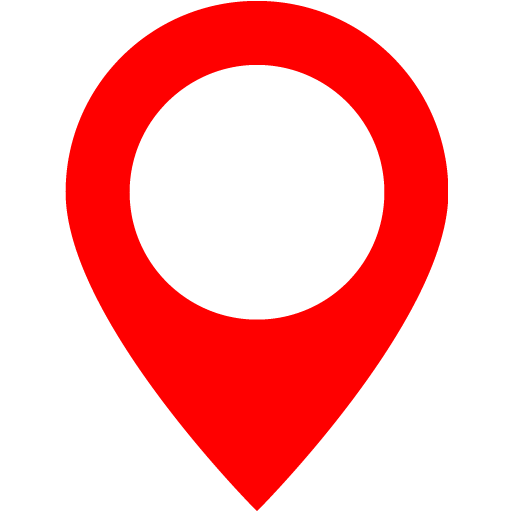
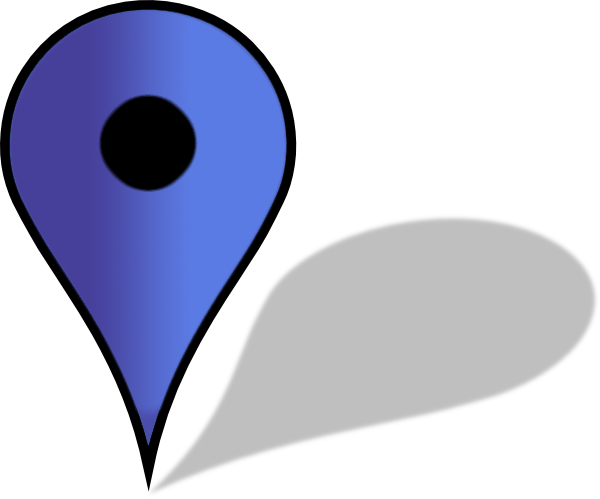
style fix

diff --git a/src/js/view.js b/src/js/view.js
@@ -2,7 +2,7 @@ import 'leaflet';
 import 'leaflet/dist/leaflet.js';
 import 'leaflet/dist/leaflet.css';
 
-import markerIcon from '../images/icon-marker2.png';
+import markerIcon from '../images/icon-marker.png';
 
 class View {
   render(data) {
@@ -63,11 +63,11 @@ export class SearchIPView extends View {
 
 export class ShowIPDataView extends View {
   _parentEl = document.querySelector('#ipInfo');
-  _message = 'Please enter correct IP address!';
+  _message = 'Please enter a valid IPv4 address!';
 
   _genereateMarkup(data) {
     return `
-      <div class="lg:px-12">
+      <div>
         <h3
           class="text-dark-gray text-[12px] uppercase font-medium tracking-wider"
         >
@@ -76,7 +76,7 @@ export class ShowIPDataView extends View {
         <p class="text-lg font-medium">${data.ip}</p>
       </div>
 
-      <div class="lg:px-12">
+      <div>
         <h3
           class="text-dark-gray text-[12px] uppercase font-medium tracking-wider"
         >
@@ -85,7 +85,7 @@ export class ShowIPDataView extends View {
         <p class="text-lg font-medium">${data.country}, ${data.city}</p>
       </div>
 
-      <div class="lg:px-12">
+      <div>
         <h3
           class="text-dark-gray text-[12px] uppercase font-medium tracking-wider"
         >
@@ -94,7 +94,7 @@ export class ShowIPDataView extends View {
         <p class="text-lg font-medium">${data.timezone.id} ${data.timezone.utc}</p>
       </div>
 
-      <div class="lg:px-12">
+      <div>
         <h3
           class="text-dark-gray text-[12px] uppercase font-medium tracking-wider"
         >
@@ -111,7 +111,7 @@ export class ShowMap extends View {
   _map = L.map('map');
   _myIcon = L.icon({
     iconUrl: markerIcon,
-    iconSize: [65, 65],
+    iconSize: [65, 55],
   });
 
   renderMap(position) {

diff --git a/index.html b/index.html
@@ -13,7 +13,7 @@
 
     <link
       rel="shortcut icon"
-      href="src/images/icon-marker.png"
+      href="src/images/logo-marker.png"
       type="image/x-icon"
     />
 
@@ -25,11 +25,16 @@
       <div
         class="flex flex-col justify-start items-center bg-header bg-no-repeat bg-cover gap-8 relative min-h-[380px] lg:min-h-[330px] pt-14"
       >
-        <h1 class="text-2xl text-white tracking-wide font-medium">
+        <h1
+          class="text-2xl text-white tracking-wide font-medium drop-shadow-[4.0px_8.0px_8.0px_rgba(0,0,0,0.38)]"
+        >
           IP Address Tracker
         </h1>
 
-        <form id="form" class="flex justify-center lg:w-[500px] container">
+        <form
+          id="form"
+          class="flex justify-center lg:w-[500px] shadow-[4.0px_8.0px_8.0px_rgba(0,0,0,0.38)] rounded-2xl container"
+        >
           <input
             class="rounded-l-xl outline-none w-full px-5 py-3 text-lg placeholder:text-sm"
             type="text"
@@ -44,7 +49,7 @@
 
         <div
           id="ipInfo"
-          class="rounded-xl text-center gap-4 flex-col lg:flex-row justify-center items-center lg:py-10 lg:divide-x-2 lg:divide-dark-gray/30 lg:space-x-4 bg-white border py-4 absolute top-[400px] lg:top-[330px] left-1/2 -translate-x-1/2 -translate-y-1/2 xl:max-w-5xl container transition-all flex z-50"
+          class="rounded-xl text-center gap-4 flex-col lg:flex-row justify-around items-center lg:py-10 0 lg:space-x-4 bg-white border py-4 px-6 absolute top-[400px] lg:top-[330px] left-1/2 -translate-x-1/2 -translate-y-1/2 xl:max-w-5xl container transition-all flex z-50 shadow-[4.0px_8.0px_8.0px_rgba(0,0,0,0.38)]"
         >
           <!-- <div class="lg:px-12">
             <h3
